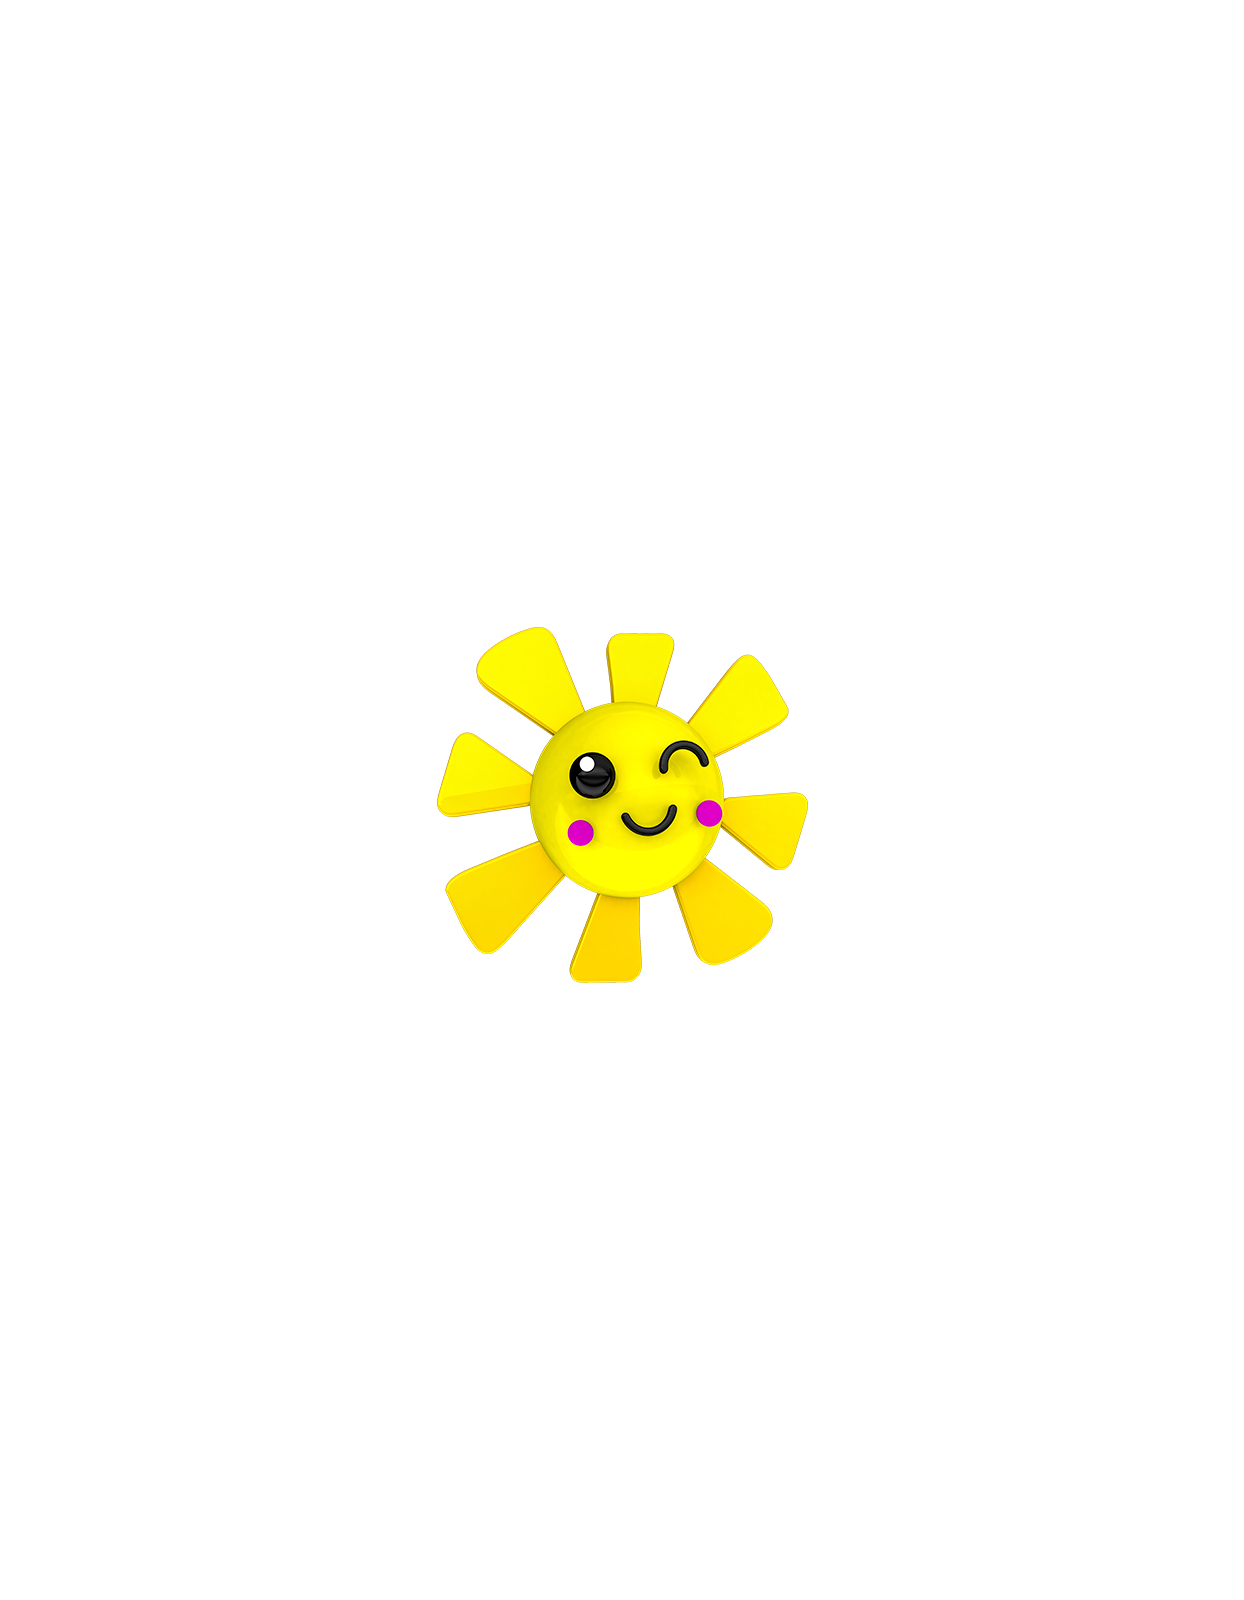
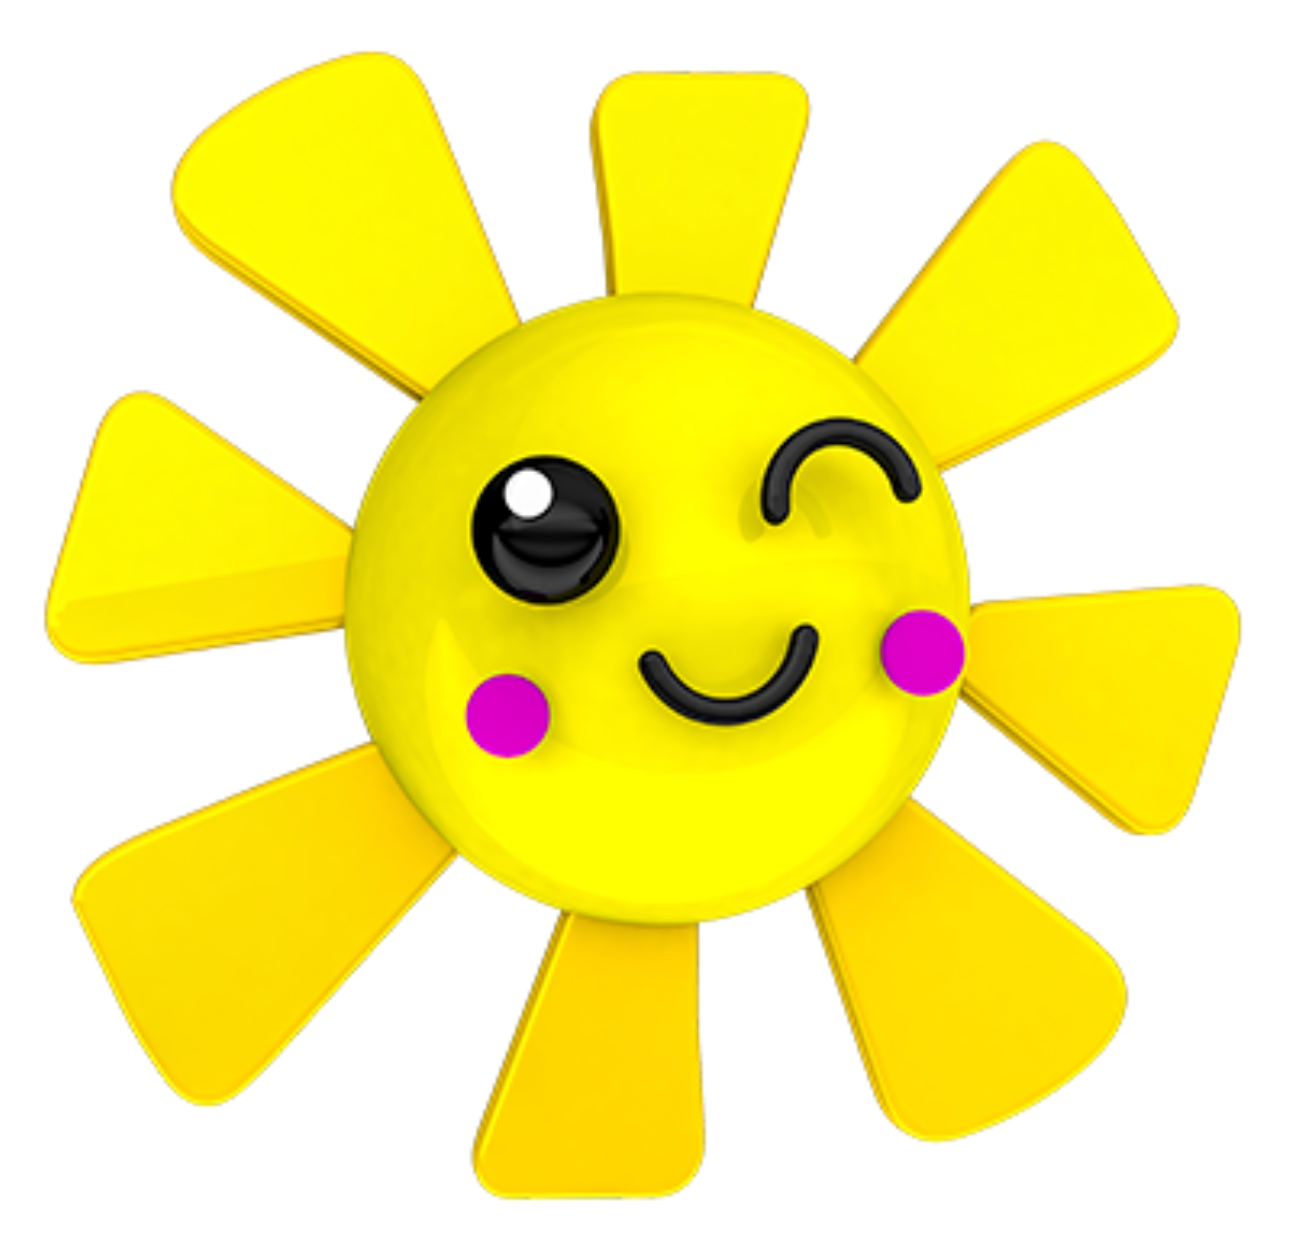
commit 01-09-2024

diff --git a/staffapp/src/components/CustomLoading.js b/staffapp/src/components/CustomLoading.js
@@ -2,35 +2,18 @@ import React, { useEffect, useRef } from "react";
 import { View, Animated, StyleSheet, Image, Easing } from "react-native";
 
 const CustomLoading = ({ progress, size = 100, imageSize = 100 }) => {
-  const scaleAnim = useRef(new Animated.Value(1)).current;
   const rotateAnim = useRef(new Animated.Value(0)).current;
   const loadingAnim = useRef(new Animated.Value(0)).current;
 
   useEffect(() => {
-    // Dancing animation (scale and rotate)
+    // Spinning animation (rotate)
     Animated.loop(
-      Animated.sequence([
-        Animated.timing(scaleAnim, {
-          toValue: 1.2,
-          duration: 300,
-          useNativeDriver: true,
-        }),
-        Animated.timing(scaleAnim, {
-          toValue: 1,
-          duration: 300,
-          useNativeDriver: true,
-        }),
-        Animated.timing(rotateAnim, {
-          toValue: 1,
-          duration: 300,
-          useNativeDriver: true,
-        }),
-        Animated.timing(rotateAnim, {
-          toValue: 0,
-          duration: 300,
-          useNativeDriver: true,
-        }),
-      ])
+      Animated.timing(rotateAnim, {
+        toValue: 1,
+        duration: 2000, // Adjust the speed of rotation
+        easing: Easing.linear,
+        useNativeDriver: true,
+      })
     ).start();
 
     // Loading bar animation only when progress is not provided
@@ -38,17 +21,17 @@ const CustomLoading = ({ progress, size = 100, imageSize = 100 }) => {
       Animated.loop(
         Animated.timing(loadingAnim, {
           toValue: 1,
-          duration: 2000,
+          duration: 5000,
           easing: Easing.linear,
           useNativeDriver: false,
         })
       ).start();
     }
-  }, [scaleAnim, rotateAnim, loadingAnim, progress]);
+  }, [rotateAnim, loadingAnim, progress]);
 
   const rotate = rotateAnim.interpolate({
     inputRange: [0, 1],
-    outputRange: ["0deg", "15deg"], // Adjust for a subtle tilt
+    outputRange: ["0deg", "360deg"], // Full rotation
   });
 
   const loadingWidth =
@@ -60,19 +43,14 @@ const CustomLoading = ({ progress, size = 100, imageSize = 100 }) => {
         });
 
   return (
-    <View style={[styles.container, { width: size, height: size }]}>
-      <Animated.View style={{ transform: [{ scale: scaleAnim }, { rotate }] }}>
+    <View style={[styles.container, { width: size }]}>
+      <Animated.View style={{ transform: [{ rotate }] }}>
         <Image
-          source={require("../../assets/barrinha.png")} // Adjust the path to your PNG file
+          source={require("../../assets/sol.png")} // Adjust the path to your PNG file
           style={[styles.image, { width: imageSize, height: imageSize }]}
         />
       </Animated.View>
-      <View
-        style={[
-          styles.loadingBarBackground,
-          { width: size * 0.8, height: size * 0.1 },
-        ]}
-      >
+      <View style={styles.loadingBarBackground}>
         <Animated.View style={[styles.loadingBar, { width: loadingWidth }]} />
       </View>
     </View>
@@ -88,10 +66,12 @@ const styles = StyleSheet.create({
     resizeMode: "contain",
   },
   loadingBarBackground: {
+    width: "80%", // Ensures the loading bar is always 80% of the container's width
+    height: 8, // Adjust the height as needed
     backgroundColor: "#ccc",
     borderRadius: 10,
     overflow: "hidden",
-    marginTop: 10,
+    marginTop: 2, // Reduced margin to decrease space between image and bar
   },
   loadingBar: {
     height: "100%",

diff --git a/staffapp/src/components/RemoteImage copy.tsx b/staffapp/src/components/RemoteImage copy.tsx
@@ -1,0 +1,98 @@
+import { Image, View, Text, StyleSheet } from "react-native";
+import React, { ComponentProps, useEffect, useState } from "react";
+import { supabase } from "../lib/supabase";
+import CustomLoader from "../components/CustomLoading"; // Adjust the path to your CustomLoader
+
+type RemoteImageProps = {
+  path?: string;
+  fallback?: string;
+  name: string;
+  bucketName: string;
+} & Omit<ComponentProps<typeof Image>, "source">;
+
+const RemoteImage = ({
+  path,
+  fallback,
+  name,
+  style,
+  bucketName,
+  ...imageProps
+}: RemoteImageProps) => {
+  const [image, setImage] = useState<string>("");
+  const [loading, setLoading] = useState<boolean>(true);
+
+  const getInitials = (name: string) => {
+    if (name) {
+      const nameArray = name.split(" ");
+      return nameArray
+        .map((word) => word[0])
+        .join("")
+        .toUpperCase();
+    }
+    return "";
+  };
+
+  const initials = getInitials(name);
+
+  useEffect(() => {
+    if (!path) {
+      setLoading(false); // Stop loading if there's no path
+      return;
+    }
+
+    (async () => {
+      setLoading(true);
+      setImage("");
+      const { data, error } = await supabase.storage
+        .from(bucketName)
+        .download(path);
+
+      if (error) {
+        console.log(error);
+        setLoading(false); // Stop loading if there's an error
+      }
+      if (data) {
+        const fr = new FileReader();
+        fr.readAsDataURL(data);
+        fr.onload = () => {
+          setImage(fr.result as string);
+          setLoading(false); // Stop loading once the image is loaded
+        };
+      }
+    })();
+  }, [path, bucketName]);
+
+  return (
+    <View style={style}>
+      {loading ? (
+        <CustomLoader
+          size={style?.width || 60}
+          imageSize={style?.width || 30}
+        />
+      ) : image ? (
+        <Image source={{ uri: image }} style={style} {...imageProps} />
+      ) : fallback ? (
+        <Image source={{ uri: fallback }} style={style} {...imageProps} />
+      ) : (
+        <View style={[style, styles.initialsContainer]}>
+          <Text style={[styles.initialsText, { fontSize: style?.height / 2 }]}>
+            {initials}
+          </Text>
+        </View>
+      )}
+    </View>
+  );
+};
+
+const styles = StyleSheet.create({
+  initialsContainer: {
+    justifyContent: "center",
+    alignItems: "center",
+    backgroundColor: "#ccc",
+  },
+  initialsText: {
+    color: "#fff",
+  },
+});
+
+export default RemoteImage;

diff --git a/staffapp/src/components/RemoteVideo.tsx b/staffapp/src/components/RemoteVideo.tsx
@@ -93,7 +93,7 @@ const RemoteVideo = ({
   if (loading && onlyThumbnail) {
     return (
       <View style={[styles.loaderContainer, style]}>
-        <CustomLoading progress={progress} size={70} imageSize={70} />
+        <CustomLoading progress={progress} size={70} imageSize={80} />
       </View>
     );
   }
@@ -132,6 +132,7 @@ const RemoteVideo = ({
 
 const styles = StyleSheet.create({
   loaderContainer: {
+    flex: 1,
     justifyContent: "center",
     alignItems: "center",
     backgroundColor: "#00000010",

diff --git a/staffapp/src/screens/HomeScreen/index.js b/staffapp/src/screens/HomeScreen/index.js
@@ -36,7 +36,7 @@ const HomeScreen = () => {
   // if (true) {
   //   return (
   //     <View style={{ flex: 1 }}>
-  //       <CustomLoading />
+  //       <CustomLoading size={100} imageSize={100} />
   //     </View>
   //   );
   // }
